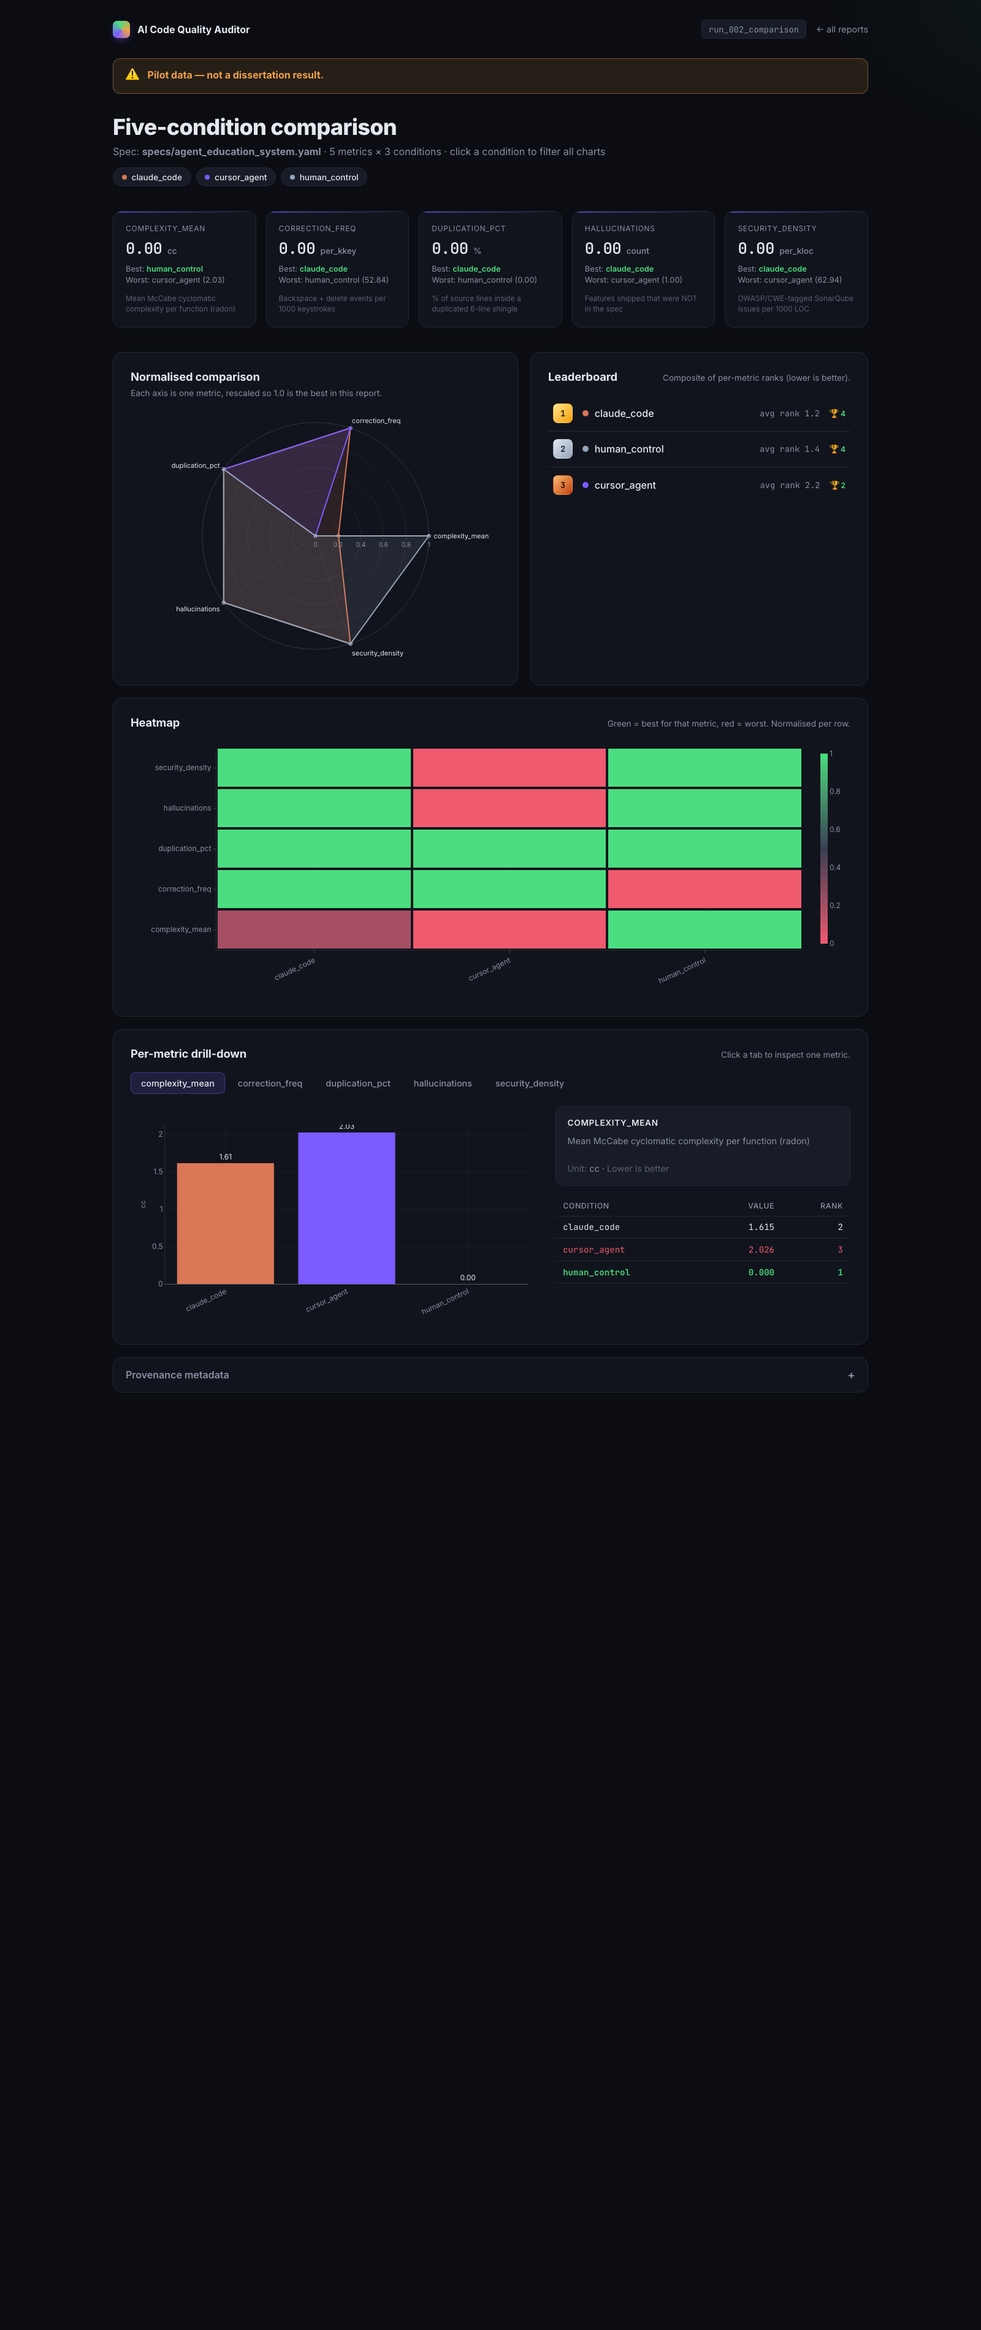
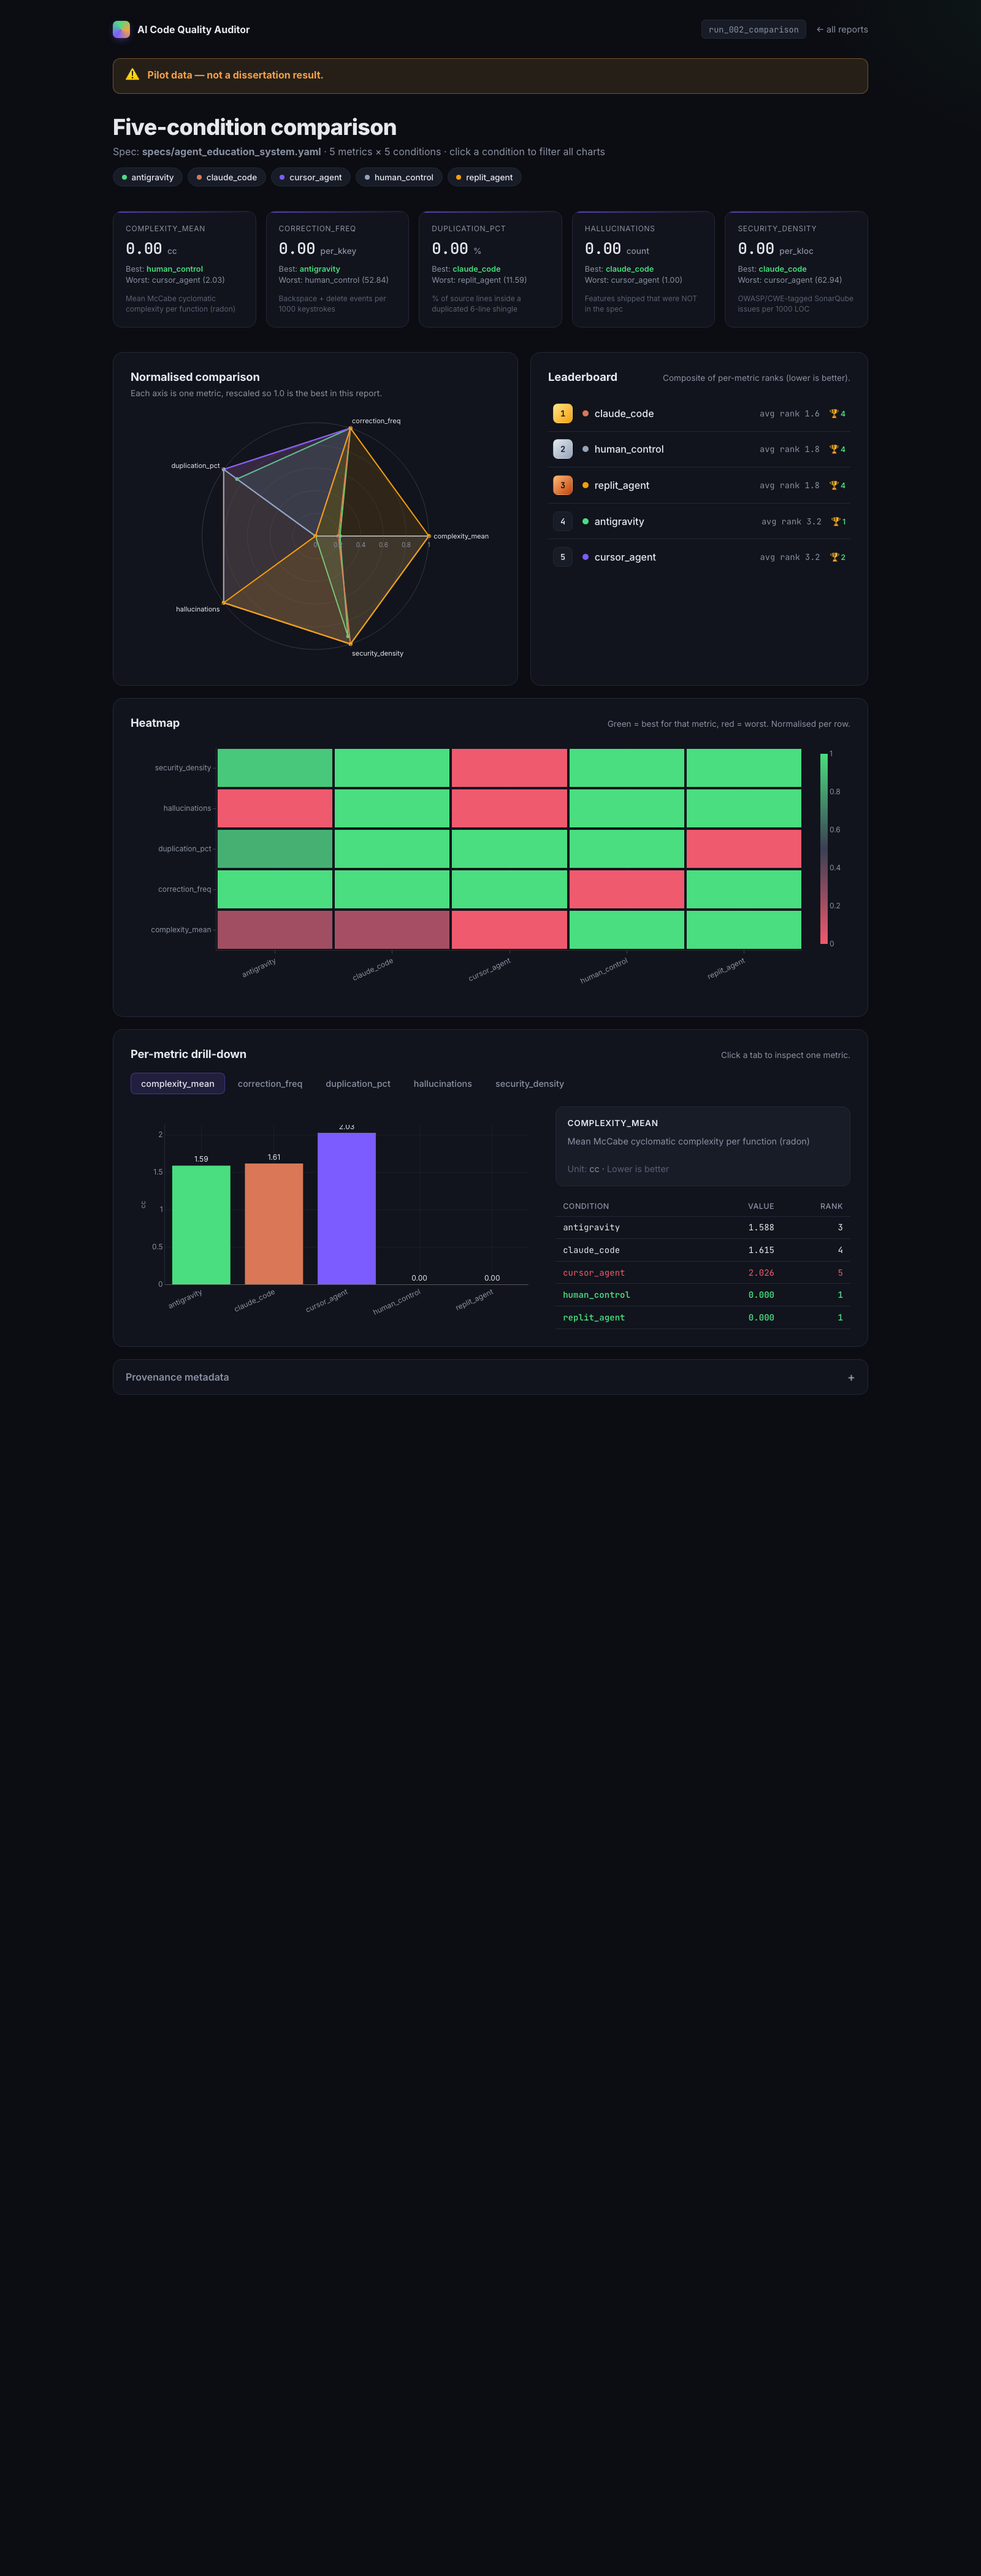
Complete 5-condition pilot: replit_agent + antigravity captured via replay mode
- Fix replay-mode persist bug (was copying from work_dir, now copies from replay_dir).
- Capture replit_agent: 83 files of TypeScript monorepo (api-server + education-app
  + scripts) via Replit Agent in the browser, downloaded as zip, replay_dir loaded.
- Capture antigravity: 2 Python files (main.py + test_app.py + users.json) via
  Gemini in the Antigravity desktop IDE, loaded through replay_dir.
- All 5 conditions now in data/reports/run_002_comparison.csv (force-added for
  dissertation reproducibility).
- New 5-condition dashboard screenshots replacing the prior 3-condition shots.

Headline cross-vendor findings:
- claude_code: 6/6 features, 0 hallucinations, 0 security issues (tightest)
- cursor_agent: 6/6 + /health hallucination, 62.94 sec_density (over-engineered)
- replit_agent: shipped a full TS monorepo (83 files) — partial feature mapping
  (4/6 detected by current heuristic on TS code; deriver tuned for Python tokens)
- antigravity: 6/6 features, 1 hallucination (root /), 4.43 sec_density
- human_control: baseline keystroke signal (52.84 per kkey, 66 backspaces)

diff --git a/auditor/adapters/antigravity_adapter.py b/auditor/adapters/antigravity_adapter.py
@@ -116,7 +116,9 @@ class AntigravityAdapter(BaseAdapter):
         code_copy = dest / "code"
         if code_copy.exists():
             shutil.rmtree(code_copy)
-        shutil.copytree(self.work_dir, code_copy)
+        source = self.replay_dir if self.replay_dir is not None else self.work_dir
+        if source.exists():
+            shutil.copytree(source, code_copy)
         return dest
 
     def generate(self, spec: dict) -> tuple[dict, list[dict]]:

diff --git a/auditor/adapters/replit_agent_adapter.py b/auditor/adapters/replit_agent_adapter.py
@@ -117,7 +117,9 @@ class ReplitAgentAdapter(BaseAdapter):
         code_copy = dest / "code"
         if code_copy.exists():
             shutil.rmtree(code_copy)
-        shutil.copytree(self.work_dir, code_copy)
+        source = self.replay_dir if self.replay_dir is not None else self.work_dir
+        if source.exists():
+            shutil.copytree(source, code_copy)
         return dest
 
     def generate(self, spec: dict) -> tuple[dict, list[dict]]:
